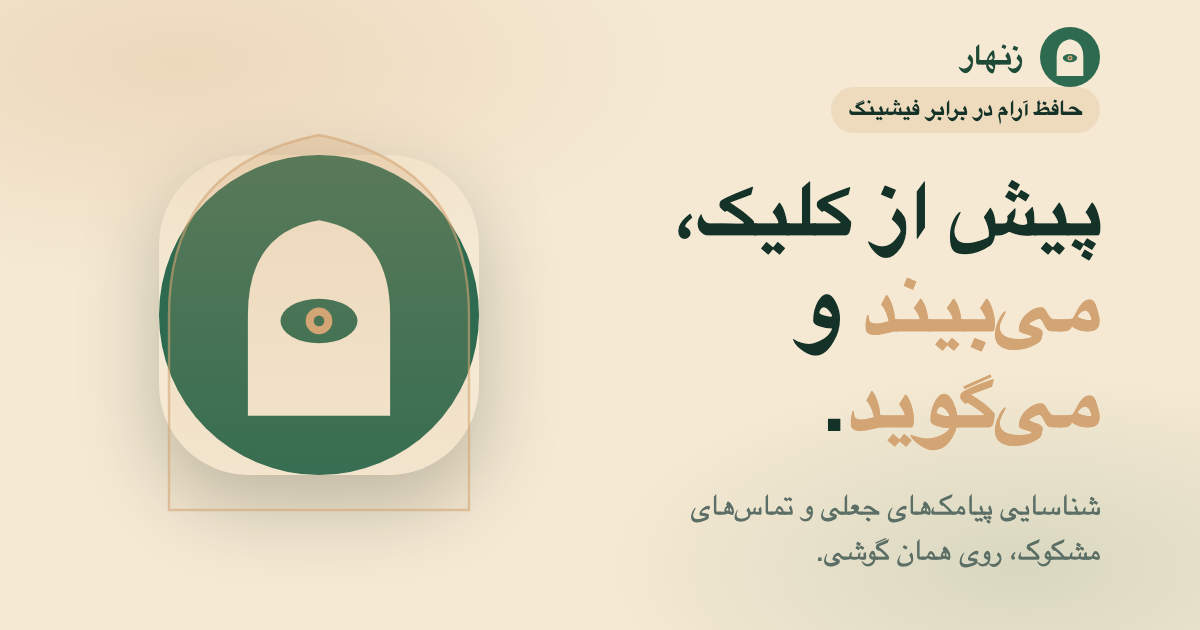
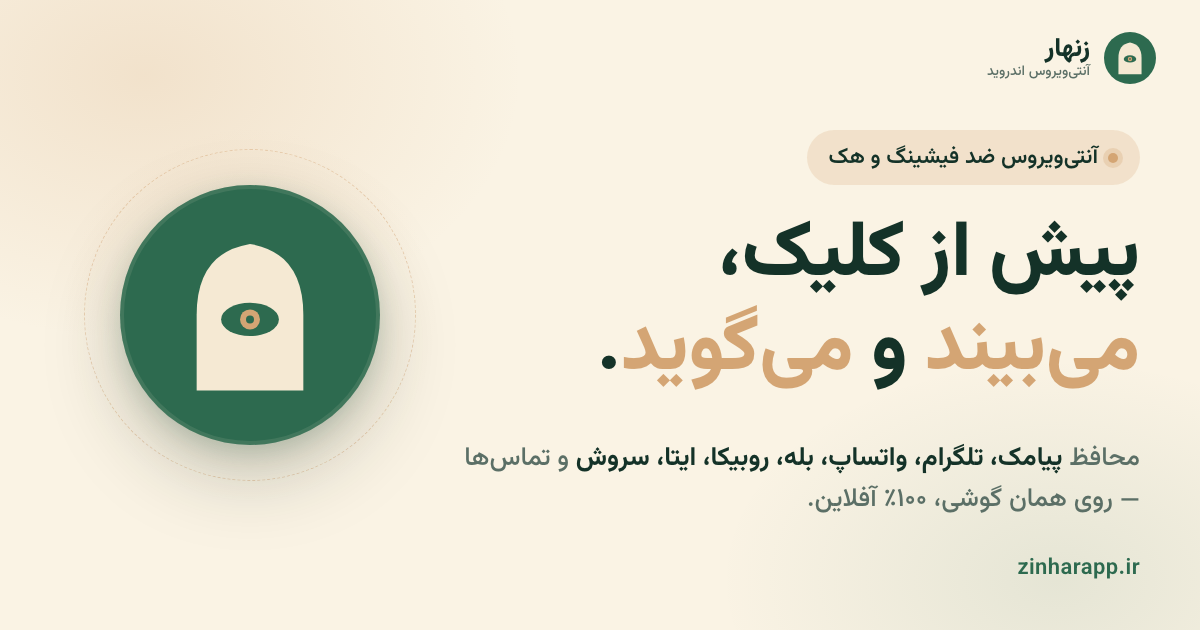
updated site

Changed region(s): [[0.0925, 0.181, 0.9558, 0.9349], [0.6783, 0.0302, 0.9867, 0.2111], [0.4008, 0.0302, 0.4625, 0.1508]]

diff --git a/index.html b/index.html
@@ -5,9 +5,9 @@
   <meta name="viewport" content="width=device-width, initial-scale=1, viewport-fit=cover">
 
   <!-- ===== Primary SEO ===== -->
-  <title>زنهار | محافظ هوشمند پیامک و تماس در برابر فیشینگ و کلاهبرداری</title>
-  <meta name="description" content="زنهار اپلیکیشن سبک و هوشمند فارسی برای شناسایی پیامکهای جعلی بانک، لینکهای مشکوک و تماسهای کلاهبرداری است. بررسی روی همان گوشی، بدون اینترنت و بدون ارسال داده. رایگان از کافهبازار.">
-  <meta name="keywords" content="زنهار, فیشینگ, ضد فیشینگ, آنتی فیشینگ, پیامک جعلی, پیامک کلاهبرداری, پیامک بانک جعلی, لینک مشکوک, تماس کلاهبردار, شناسایی پیامک مشکوک, محافظ پیامک, اپ امنیتی فارسی, کافه بازار">
+  <title>زنهار | آنتیویروس و محافظ ضد فیشینگ و هک برای اندروید — پیامک، تلگرام، واتساپ، تماس</title>
+  <meta name="description" content="زنهار آنتیویروس فارسی و سبک برای اندروید است؛ پیامکهای جعلی، لینکهای فیشینگ در تلگرام، واتساپ، بله، روبیکا، ایتا و سروش، و تماسهای کلاهبرداری را پیش از کلیک شناسایی میکند. موتور تشخیص ۱۰۰٪ آفلاین روی همان گوشی، بدون ارسال داده. رایگان از کافهبازار.">
+  <meta name="keywords" content="آنتی ویروس اندروید, آنتی ویروس فارسی, آنتی ویروس رایگان اندروید, ضد هک اندروید, آنتی هک, ضد فیشینگ, آنتی فیشینگ, امنیت اندروید, امنیت گوشی, محافظ موبایل, زنهار, پیامک جعلی, پیامک کلاهبرداری, پیامک بانک جعلی, لینک فیشینگ, آنتی ویروس تلگرام, محافظ واتساپ, امنیت پیامرسان, تماس کلاهبردار, شناسایی پیامک مشکوک, محافظ پیامک, اپ امنیتی فارسی, ضد جاسوسی اندروید, محافظت آفلاین, کافه بازار">
   <meta name="author" content="زنهار">
   <meta name="robots" content="index, follow, max-image-preview:large, max-snippet:-1">
   <meta name="googlebot" content="index, follow">
@@ -22,8 +22,8 @@
   <meta property="og:type" content="website">
   <meta property="og:site_name" content="زنهار">
   <meta property="og:locale" content="fa_IR">
-  <meta property="og:title" content="زنهار | محافظ هوشمند پیامک و تماس در برابر فیشینگ">
-  <meta property="og:description" content="پیامکهای جعلی، لینکهای مشکوک و تماسهای کلاهبرداری را پیش از کلیک شناسایی میکند. سبک، فارسی، روی همان گوشی.">
+  <meta property="og:title" content="زنهار | آنتیویروس ضد فیشینگ و هک برای اندروید">
+  <meta property="og:description" content="محافظ هوشمند پیامک، تلگرام، واتساپ، بله، روبیکا، ایتا، سروش و تماسها. حملات فیشینگ و کلاهبرداری را پیش از کلیک شناسایی میکند. ۱۰۰٪ آفلاین، فارسی، روی همان گوشی.">
   <meta property="og:url" content="https://zinharapp.ir/">
   <meta property="og:image" content="https://zinharapp.ir/og-image.png">
   <meta property="og:image:width" content="1200">
@@ -32,8 +32,8 @@
 
   <!-- ===== Twitter Card ===== -->
   <meta name="twitter:card" content="summary_large_image">
-  <meta name="twitter:title" content="زنهار | محافظ هوشمند پیامک و تماس">
-  <meta name="twitter:description" content="پیامکهای جعلی و تماسهای کلاهبرداری را پیش از کلیک شناسایی میکند. سبک، فارسی، روی همان گوشی.">
+  <meta name="twitter:title" content="زنهار | آنتیویروس ضد فیشینگ و هک برای اندروید">
+  <meta name="twitter:description" content="محافظ هوشمند پیامک، پیامرسانها و تماسها در برابر فیشینگ و هک. ۱۰۰٪ آفلاین، روی همان گوشی.">
   <meta name="twitter:image" content="https://zinharapp.ir/og-image.png">
   <meta name="twitter:image:alt" content="آیکن زنهار — طاق فارسی با چشم نگهبان">
 
@@ -52,12 +52,12 @@
     "@context": "https://schema.org",
     "@type": "MobileApplication",
     "name": "زنهار",
-    "alternateName": "Zinhar",
+    "alternateName": ["Zinhar", "آنتی ویروس زنهار"],
     "applicationCategory": "SecurityApplication",
-    "applicationSubCategory": "Anti-Phishing",
+    "applicationSubCategory": "Antivirus, Anti-Phishing, Anti-Hack",
     "operatingSystem": "Android 7.0+",
     "inLanguage": "fa-IR",
-    "description": "اپلیکیشن سبک و هوشمند فارسی برای شناسایی پیامکهای جعلی، لینکهای فیشینگ و تماسهای کلاهبرداری. بررسی کاملاً روی همان گوشی، بدون ارسال هیچ دادهای به سرور.",
+    "description": "آنتیویروس فارسی و سبک برای اندروید که در برابر فیشینگ، هک و کلاهبرداری در پیامک، پیامرسانها (تلگرام، واتساپ، بله، روبیکا، ایتا، سروش) و تماسها محافظت میکند. موتور تشخیص ۱۰۰٪ آفلاین روی همان گوشی، بدون ارسال داده.",
     "url": "https://zinharapp.ir/",
     "installUrl": "https://cafebazaar.ir/app/ir.zinhar.app",
     "downloadUrl": "https://cafebazaar.ir/app/ir.zinhar.app",
@@ -68,11 +68,14 @@
       "availability": "https://schema.org/InStock"
     },
     "featureList": [
-      "شناسایی پیامکهای جعلی بانک",
-      "تشخیص لینکهای فیشینگ",
-      "هشدار تماسهای مشکوک",
-      "بررسی کامل روی دستگاه، بدون اینترنت",
-      "حفاظت از حریم خصوصی، بدون ارسال داده"
+      "آنتیویروس آفلاین برای اندروید، بدون نیاز به اینترنت دائمی",
+      "محافظت ضد فیشینگ و هک روی پیامک، تلگرام، واتساپ، بله، روبیکا، ایتا و سروش",
+      "شناسایی پیامکهای جعلی بانک و سازمانهای دولتی",
+      "تشخیص لینکهای فیشینگ و دامنههای جعلی",
+      "هشدار تماسهای کلاهبرداری و مزاحم",
+      "بررسی کامل روی دستگاه، بدون ارسال داده به سرور",
+      "حفاظت از حریم خصوصی — صفر اطلاعات شخصی خارج از گوشی",
+      "بسیار سبک، مناسب گوشیهای قدیمی"
     ],
     "publisher": {
       "@type": "Organization",
@@ -92,7 +95,7 @@
     "alternateName": "Zinhar",
     "url": "https://zinharapp.ir/",
     "logo": "https://zinharapp.ir/logo-512.png",
-    "description": "سازندهٔ اپلیکیشن زنهار — محافظ هوشمند در برابر فیشینگ پیامکی و تماسهای کلاهبرداری.",
+    "description": "سازندهٔ اپلیکیشن زنهار — آنتیویروس و محافظ هوشمند اندروید در برابر فیشینگ، هک و کلاهبرداری در پیامک، پیامرسانها و تماسها.",
     "areaServed": "IR"
   }
   </script>
@@ -108,7 +111,23 @@
         "name": "زنهار چیست و چه میکند؟",
         "acceptedAnswer": {
           "@type": "Answer",
-          "text": "زنهار اپلیکیشنی فارسی برای اندروید است که پیامکهای جعلی، لینکهای فیشینگ و تماسهای کلاهبرداری را روی همان گوشی شما شناسایی میکند و پیش از کلیک به شما هشدار میدهد."
+          "text": "زنهار آنتیویروس فارسی برای اندروید است که از شما در برابر فیشینگ، هک و کلاهبرداری محافظت میکند. پیامکهای جعلی، لینکهای مخرب در تلگرام، واتساپ، بله، روبیکا، ایتا و سروش، و تماسهای کلاهبرداری را روی همان گوشی شناسایی میکند و پیش از کلیک هشدار میدهد."
+        }
+      },
+      {
+        "@type": "Question",
+        "name": "زنهار از چه پیامرسانهایی محافظت میکند؟",
+        "acceptedAnswer": {
+          "@type": "Answer",
+          "text": "زنهار پیامهای ورودی در تلگرام، واتساپ، بله، روبیکا، ایتا و سروش را برای شناسایی لینکهای فیشینگ و الگوهای کلاهبرداری بررسی میکند — همگی بهصورت آفلاین روی همان گوشی."
+        }
+      },
+      {
+        "@type": "Question",
+        "name": "آیا زنهار یک آنتیویروس واقعی است؟",
+        "acceptedAnswer": {
+          "@type": "Answer",
+          "text": "زنهار آنتیویروس نسل جدید است. بهجای اسکن فایلهای قدیمی، روی تهدیدی تمرکز میکند که امروز بیشترین قربانی را میگیرد: فیشینگ و هک از طریق پیامک، پیامرسان و تماس. این رایجترین راه نفوذ به حساب بانکی و شخصیت دیجیتال شماست."
         }
       },
       {
@@ -116,15 +135,15 @@
         "name": "آیا زنهار به اینترنت نیاز دارد؟",
         "acceptedAnswer": {
           "@type": "Answer",
-          "text": "خیر. تمام بررسیهای پیامک و تماس بهصورت کاملاً آفلاین و روی همان دستگاه انجام میشود. تنها هر چند روز یکبار، بهروزرسانی قوانین تشخیص از اینترنت دریافت میشود."
+          "text": "خیر. تمام بررسیها بهصورت کاملاً آفلاین و روی همان دستگاه انجام میشود. تنها هر چند روز یکبار، بهروزرسانی قوانین تشخیص از اینترنت دریافت میشود."
         }
       },
       {
         "@type": "Question",
-        "name": "آیا پیامکهای من به سرور فرستاده میشود؟",
+        "name": "آیا پیامهای من به سرور فرستاده میشود؟",
         "acceptedAnswer": {
           "@type": "Answer",
-          "text": "هرگز. متن پیامکها، شمارهٔ تماسگیرنده و مخاطبان شما از گوشی خارج نمیشوند. زنهار هیچ پروفایلی از کاربر نمیسازد و هیچ گزارشی به سرور نمیفرستد."
+          "text": "هرگز. متن پیامکها، پیامهای پیامرسانها، شمارهٔ تماسگیرنده و مخاطبان شما از گوشی خارج نمیشوند. زنهار هیچ پروفایلی از کاربر نمیسازد و هیچ گزارشی به سرور نمیفرستد."
         }
       },
       {
@@ -140,7 +159,7 @@
         "name": "حجم اپلیکیشن زنهار چقدر است؟",
         "acceptedAnswer": {
           "@type": "Answer",
-          "text": "زنهار اپلیکیشنی بسیار سبک است و حافظهٔ زیادی از گوشی شما اشغال نمیکند. روی گوشیهای قدیمیتر هم بهراحتی نصب و اجرا میشود."
+          "text": "زنهار آنتیویروسی بسیار سبک است و حافظهٔ زیادی از گوشی شما اشغال نمیکند. روی گوشیهای قدیمیتر هم بهراحتی نصب و اجرا میشود."
         }
       }
     ]
@@ -690,14 +709,15 @@
     <div class="hero-bg" aria-hidden="true"></div>
     <div class="container hero-inner">
       <div class="hero-content reveal">
-        <span class="eyebrow">حافظ آرام در برابر فیشینگ</span>
+        <span class="eyebrow">آنتیویروس ضد فیشینگ و هک برای اندروید</span>
         <h1 class="hero-title">
           پیش از کلیک، <br>
           <span class="accent">میبیند</span> و <span class="accent">میگوید</span>.
         </h1>
         <p class="hero-lead">
-          زنهار پیامکهای جعلی و تماسهای مشکوک را روی همین گوشی شناسایی میکند.
-          سبک، هوشمند، و آرام — بدون تبلیغ، بدون مزاحمت، بدون فرستادن چیزی به جایی.
+          زنهار آنتیویروس فارسی برای اندروید است؛ پیامکها، پیامهای تلگرام، واتساپ، بله، روبیکا، ایتا و سروش، و تماسهای ورودی را
+          روی همین گوشی بررسی میکند و فیشینگ و کلاهبرداری را پیش از آسیب میگیرد. سبک، هوشمند، آرام —
+          بدون تبلیغ، بدون مزاحمت، بدون فرستادن چیزی به جایی.
         </p>
         <div class="hero-cta-row">
           <a class="btn btn-primary btn-lg" href="https://cafebazaar.ir/app/ir.zinhar.app" rel="noopener">
@@ -711,7 +731,7 @@
         <div class="hero-meta">
           <span>
             <svg width="16" height="16" viewBox="0 0 24 24" fill="none" stroke="currentColor" stroke-width="2.2" stroke-linecap="round" stroke-linejoin="round"><polyline points="20 6 9 17 4 12"/></svg>
-            کاملاً رایگان
+            رایگان
           </span>
           <span>
             <svg width="16" height="16" viewBox="0 0 24 24" fill="none" stroke="currentColor" stroke-width="2.2" stroke-linecap="round" stroke-linejoin="round"><path d="M12 2 4 6v6c0 5 3.5 9.4 8 10 4.5-.6 8-5 8-10V6l-8-4Z"/></svg>
@@ -757,7 +777,7 @@
                 <svg viewBox="0 0 24 24" fill="none" stroke="currentColor" stroke-width="2.2" stroke-linecap="round" stroke-linejoin="round"><path d="M12 2 4 6v6c0 5 3.5 9.4 8 10 4.5-.6 8-5 8-10V6l-8-4Z"/><polyline points="9 12 11 14 15 10"/></svg>
               </div>
               <div class="phone-hero-title">در حال محافظت</div>
-              <div class="phone-hero-sub">پیامکها و تماسها بررسی میشوند</div>
+              <div class="phone-hero-sub">پیامک، پیامرسان و تماس بررسی میشوند</div>
             </div>
             <div class="phone-stat-row">
               <div class="phone-stat">
@@ -779,7 +799,7 @@
             <div class="phone-alert">
               <span class="phone-alert-dot med"></span>
               <div class="phone-alert-text">
-                <div class="phone-alert-title">لینک ناشناس — بسته پستی</div>
+                <div class="phone-alert-title">لینک فیشینگ — تلگرام</div>
                 <div class="phone-alert-meta">دیروز</div>
               </div>
             </div>
@@ -794,10 +814,10 @@
     <div class="container">
       <div class="section-head reveal">
         <span class="section-kicker">آنچه روزانه میبینیم</span>
-        <h2 class="section-title">فیشینگ، چهرهای آشنا دارد.</h2>
+        <h2 class="section-title">فیشینگ و هک، چهرهای آشنا دارند.</h2>
         <p class="section-lead">
-          پیامی از «بانک»، تماسی از «پلیس»، لینکی برای «بسته پستی». این روزها کلاهبردارها لحن رسمی و آرام دارند —
-          و اولین قربانی، اعتمادی است که به متن یک پیامک یا صدای یک تماس داریم.
+          پیامی از «بانک»، لینکی در تلگرام، تماسی از «پلیس»، پیامکی از «بسته پستی». کلاهبردارها لحن رسمی و آرام دارند —
+          و اولین قربانی، اعتمادی است که به متن یک پیام یا صدای یک تماس داریم.
         </p>
       </div>
 
@@ -816,13 +836,13 @@
 
         <article class="problem-card reveal">
           <p class="problem-quote">
-            «بسته پستی شما در گمرک معطل است. برای ترخیص، هزینه را از طریق این لینک پرداخت کنید.»
+            «جایزه شما در قرعهکشی فعال شد. برای دریافت، اطلاعات کارت خود را در این لینک وارد کنید.»
           </p>
           <div class="problem-meta">
             <span class="problem-meta-icon">
-              <svg viewBox="0 0 24 24" fill="none" stroke="currentColor" stroke-width="2" stroke-linecap="round" stroke-linejoin="round"><path d="M21 10a8 8 0 1 1-16 0"/><path d="M12 2v8"/><path d="m8 6 4-4 4 4"/></svg>
+              <svg viewBox="0 0 24 24" fill="none" stroke="currentColor" stroke-width="2" stroke-linecap="round" stroke-linejoin="round"><path d="m22 2-7 20-4-9-9-4Z"/><path d="M22 2 11 13"/></svg>
             </span>
-            لینک بستهپستی ناشناس
+            لینک فیشینگ در تلگرام/واتساپ
           </div>
         </article>
 
@@ -847,7 +867,7 @@
     <div class="container">
       <div class="section-head reveal">
         <span class="section-kicker">روشِ زنهار</span>
-        <h2 class="section-title">یک نگهبان آرام، در آستانهٔ ورود.</h2>
+        <h2 class="section-title">نگهبانی آرام برای پیامک، پیامرسان و تماس.</h2>
         <p class="section-lead">
           زنهار همان لحظهای که پیامی میرسد یا تماسی برقرار میشود، آرام بررسی میکند —
           و فقط زمانی صدایی از خود درمیآورد که واقعاً لازم باشد.
@@ -863,8 +883,8 @@
           </div>
           <h3 class="how-title">شناسایی پیش از کلیک</h3>
           <p class="how-text">
-            هر پیامک تازهرسیده در همان لحظه بررسی میشود. اگر نشانهای از فریب در آن باشد،
-            با آرامش به شما اطلاع میدهد — پیش از آنکه روی لینکی کلیک کنید.
+            هر پیام تازهرسیده — پیامک، تلگرام، واتساپ، بله، روبیکا، ایتا یا سروش —
+            در همان لحظه بررسی میشود. اگر نشانهای از فیشینگ یا فریب در آن باشد، با آرامش به شما اطلاع میدهد.
           </p>
         </article>
 
@@ -876,8 +896,8 @@
           </div>
           <h3 class="how-title">روی همین گوشی، بدون اینترنت</h3>
           <p class="how-text">
-            تمام بررسیها روی خودِ دستگاه شما انجام میشود. نه نیازی به اتصال دائمی به اینترنت دارد،
-            نه چیزی از پیامهای شما به جایی فرستاده میشود.
+            موتور تشخیص ۱۰۰٪ آفلاین روی خودِ دستگاه اجرا میشود.
+            نه نیازی به اتصال دائمی دارد، نه چیزی از پیامها یا تماسهای شما به جایی فرستاده میشود.
           </p>
         </article>
 
@@ -902,9 +922,9 @@
     <div class="container">
       <div class="section-head reveal">
         <span class="section-kicker">چرا زنهار</span>
-        <h2 class="section-title">سبک، هوشمند، و فارسیفهم.</h2>
+        <h2 class="section-title">آنتیویروسی سبک، هوشمند و فارسیفهم.</h2>
         <p class="section-lead">
-          ساخته شده برای گوشیهای ایرانی، با درکی واقعی از زبان فارسی و الگوهای فریب در بستر همین کشور.
+          ساخته شده برای گوشیهای ایرانی، با درکی واقعی از زبان فارسی و الگوهای فیشینگ و کلاهبرداری در بستر همین کشور.
         </p>
       </div>
 
@@ -925,7 +945,7 @@
           </div>
           <div>
             <h4 class="why-title">تشخیص هوشمند</h4>
-            <p class="why-text">قوانین چندلایه + تشخیص الگوهای زبانی فارسی + بررسی لینکهای جعلی. یاد میگیرد، اما روی همین گوشی شما.</p>
+            <p class="why-text">قوانین چندلایه + الگوهای زبانی فارسی + بررسی لینک و دامنههای جعلی، روی پیامک، پیامرسانها و تماسها — همه روی همین گوشی شما.</p>
           </div>
         </div>
 
@@ -955,7 +975,7 @@
           </div>
           <div>
             <h4 class="why-title">راهاندازی در چند ثانیه</h4>
-            <p class="why-text">نصب میکنید، یکبار اجازه میدهید پیامکها را بخواند، و کار تمام است. از همان لحظه، در پسزمینه میپاید.</p>
+            <p class="why-text">نصب میکنید، یکبار اجازههای لازم برای محافظت را میدهید، و کار تمام است. از همان لحظه، در پسزمینه میپاید.</p>
           </div>
         </div>
 
@@ -965,7 +985,7 @@
           </div>
           <div>
             <h4 class="why-title">حریم خصوصی، اصل اول</h4>
-            <p class="why-text">پیامهای شما هرگز از گوشی خارج نمیشوند. زنهار به سرور خود گزارش نمیفرستد، حتی یک خط.</p>
+            <p class="why-text">پیامکها، پیامهای پیامرسانها، شمارهها و مخاطبان شما هرگز از گوشی خارج نمیشوند. زنهار به سرور خود گزارش نمیفرستد، حتی یک خط.</p>
           </div>
         </div>
       </div>
@@ -985,7 +1005,7 @@
         <div>
           <h2>هیچچیز، به هیچکجا.</h2>
           <p>
-            متن پیامکهای شما، شمارهٔ تماسگیرنده، یا فهرست مخاطبانتان از گوشی خارج نمیشود.
+            متن پیامکها، پیامهای پیامرسانها، شمارهٔ تماسگیرندهها یا فهرست مخاطبان شما از گوشی خارج نمیشود.
             زنهار به سرور خود گزارش نمیفرستد و هیچ پروفایلی از شما نمیسازد —
             تنها چیزی که هر چند روز یکبار دریافت میکند، خودِ بهروزرسانی قوانین تشخیص است.
           </p>
@@ -1006,24 +1026,42 @@
         <details class="faq-item">
           <summary>زنهار چیست و چه میکند؟</summary>
           <p>
-            زنهار اپلیکیشنی فارسی برای اندروید است که پیامکهای جعلی، لینکهای فیشینگ و تماسهای کلاهبرداری را
-            روی همان گوشی شما شناسایی میکند و پیش از کلیک به شما هشدار میدهد.
+            زنهار آنتیویروس فارسی برای اندروید است که از شما در برابر فیشینگ، هک و کلاهبرداری محافظت میکند.
+            پیامکهای جعلی، لینکهای مخرب در تلگرام، واتساپ، بله، روبیکا، ایتا و سروش، و تماسهای کلاهبرداری
+            را روی همان گوشی شناسایی میکند و پیش از کلیک هشدار میدهد.
+          </p>
+        </details>
+
+        <details class="faq-item">
+          <summary>زنهار از چه پیامرسانهایی محافظت میکند؟</summary>
+          <p>
+            زنهار پیامهای ورودی در <strong>تلگرام، واتساپ، بله، روبیکا، ایتا و سروش</strong> را
+            برای شناسایی لینکهای فیشینگ و الگوهای کلاهبرداری بررسی میکند — همگی بهصورت آفلاین روی همان گوشی.
+          </p>
+        </details>
+
+        <details class="faq-item">
+          <summary>آیا زنهار یک آنتیویروس واقعی است؟</summary>
+          <p>
+            زنهار آنتیویروس نسل جدید است. بهجای اسکن فایلهای قدیمی، روی تهدیدی تمرکز میکند که
+            امروز بیشترین قربانی را میگیرد: <strong>فیشینگ و هک از طریق پیامک، پیامرسان و تماس</strong>.
+            این رایجترین راه نفوذ به حساب بانکی و هویت دیجیتال شماست.
           </p>
         </details>
 
         <details class="faq-item">
           <summary>آیا زنهار به اینترنت نیاز دارد؟</summary>
           <p>
-            خیر. تمام بررسیهای پیامک و تماس بهصورت کاملاً آفلاین و روی همان دستگاه انجام میشود.
+            خیر. موتور تشخیص ۱۰۰٪ آفلاین روی همان دستگاه اجرا میشود.
             تنها هر چند روز یکبار، بهروزرسانی قوانین تشخیص از اینترنت دریافت میشود.
           </p>
         </details>
 
         <details class="faq-item">
-          <summary>آیا پیامکهای من به سرور فرستاده میشود؟</summary>
+          <summary>آیا پیامهای من به سرور فرستاده میشود؟</summary>
           <p>
-            هرگز. متن پیامکها، شمارهٔ تماسگیرنده و مخاطبان شما از گوشی خارج نمیشوند.
-            زنهار هیچ پروفایلی از کاربر نمیسازد و هیچ گزارشی به سرور نمیفرستد.
+            هرگز. متن پیامکها، پیامهای پیامرسانها، شمارهٔ تماسگیرندهها و مخاطبان شما
+            از گوشی خارج نمیشوند. زنهار هیچ پروفایلی از کاربر نمیسازد و هیچ گزارشی به سرور نمیفرستد.
           </p>
         </details>
 
@@ -1037,7 +1075,7 @@
         <details class="faq-item">
           <summary>حجم اپلیکیشن زنهار چقدر است؟</summary>
           <p>
-            زنهار اپلیکیشنی بسیار سبک است و حافظهٔ زیادی از گوشی شما اشغال نمیکند.
+            زنهار آنتیویروسی بسیار سبک است و حافظهٔ زیادی از گوشی شما اشغال نمیکند.
             روی گوشیهای قدیمیتر هم بهراحتی نصب و اجرا میشود.
           </p>
         </details>
@@ -1069,7 +1107,7 @@
     <div class="container footer-inner">
       <div class="footer-brand">
         <svg class="brand-mark" viewBox="0 0 108 108" aria-hidden="true"><use href="#brand-icon"/></svg>
-        زنهار · حافظ آرام در برابر فیشینگ
+        زنهار · آنتیویروس ضد فیشینگ و هک برای اندروید
       </div>
       <div>© ۱۴۰۵ زنهار. ساختهشده در ایران، برای ایران.</div>
     </div>